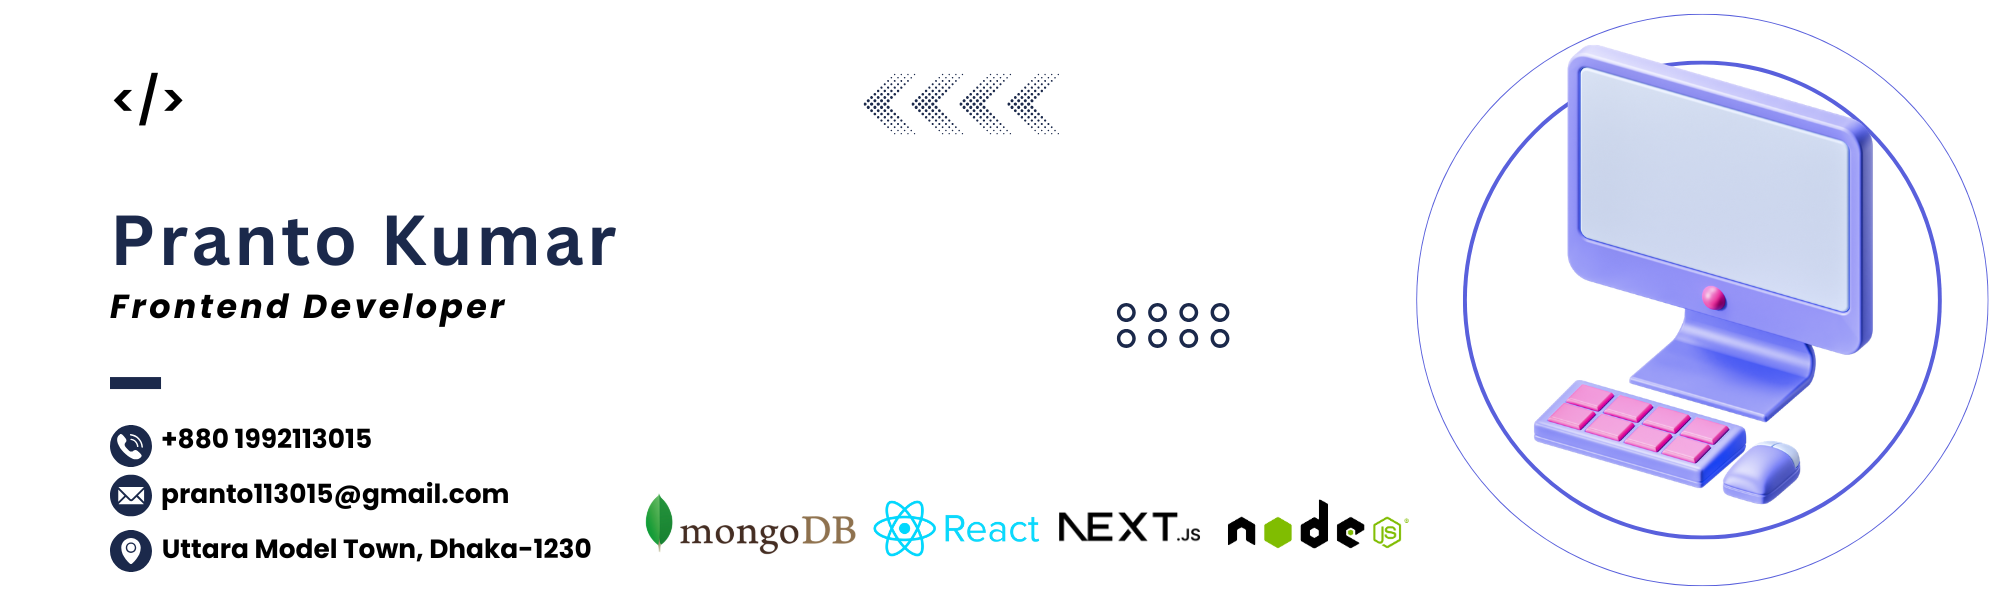
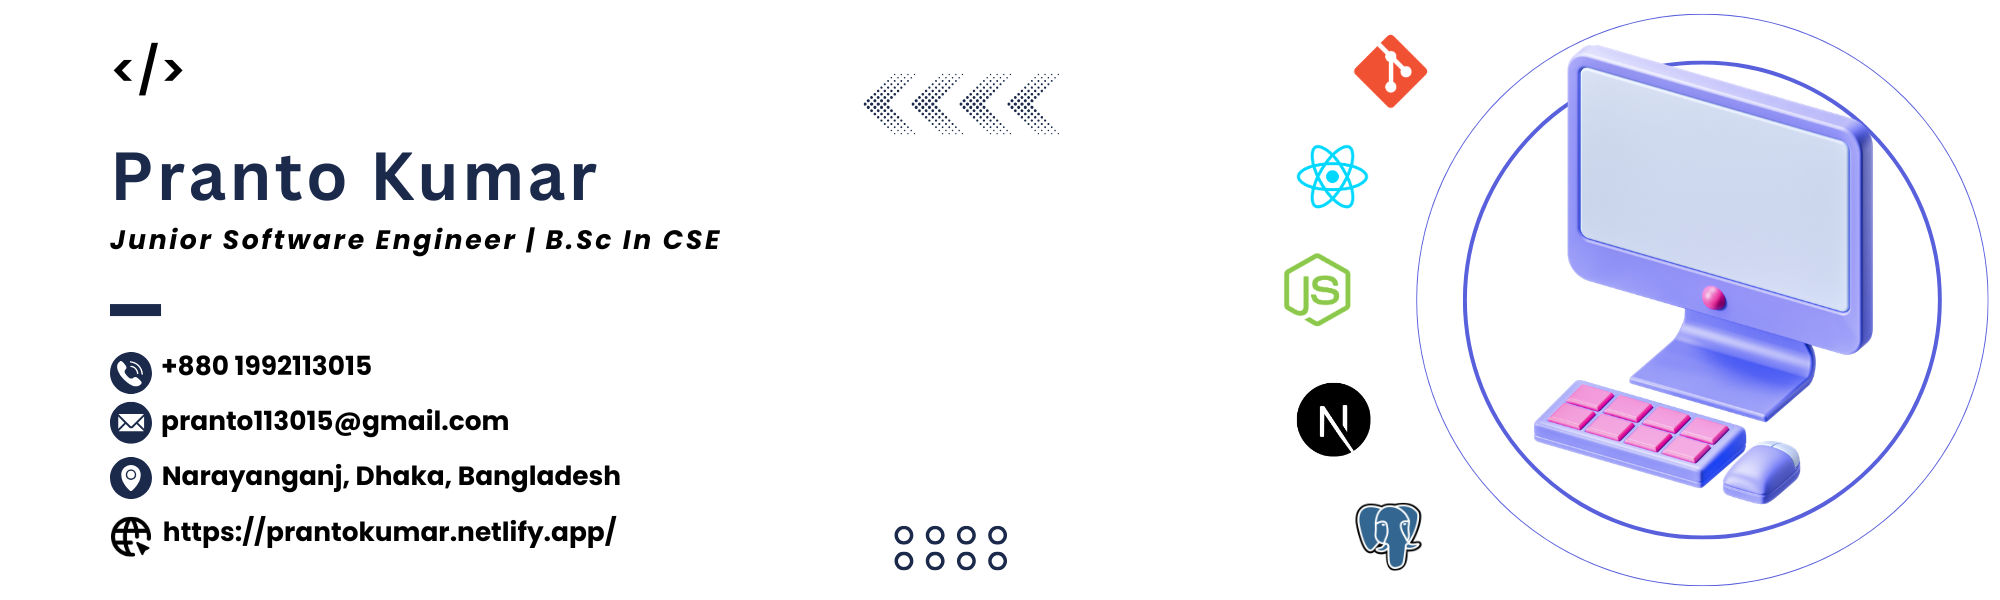
Refactor code structure for improved readability and maintainability v1.0.25

diff --git a/README.md b/README.md
@@ -5,7 +5,7 @@
 <!--Banar Section End-->
 
 <!--Title & Typography Section End-->
-<h1 align="center">Hi ,<img src="./assets/img/Wave.gif" height="50px" width="50px">I'm a Front-End Web Developer</h1>
+<h1 align="center">Hi ,<img src="./assets/img/Wave.gif" height="50px" width="50px">I'm a Junior Software Engineer</h1>
 
 <p align="center">
     <img src="https://readme-typing-svg.herokuapp.com/?font=Righteous&size=20&center=true&vCenter=true&width=435&height=70&duration=4000&lines=welcome+to+visit+my+profile;+Nice+to+meet+you;"/>
